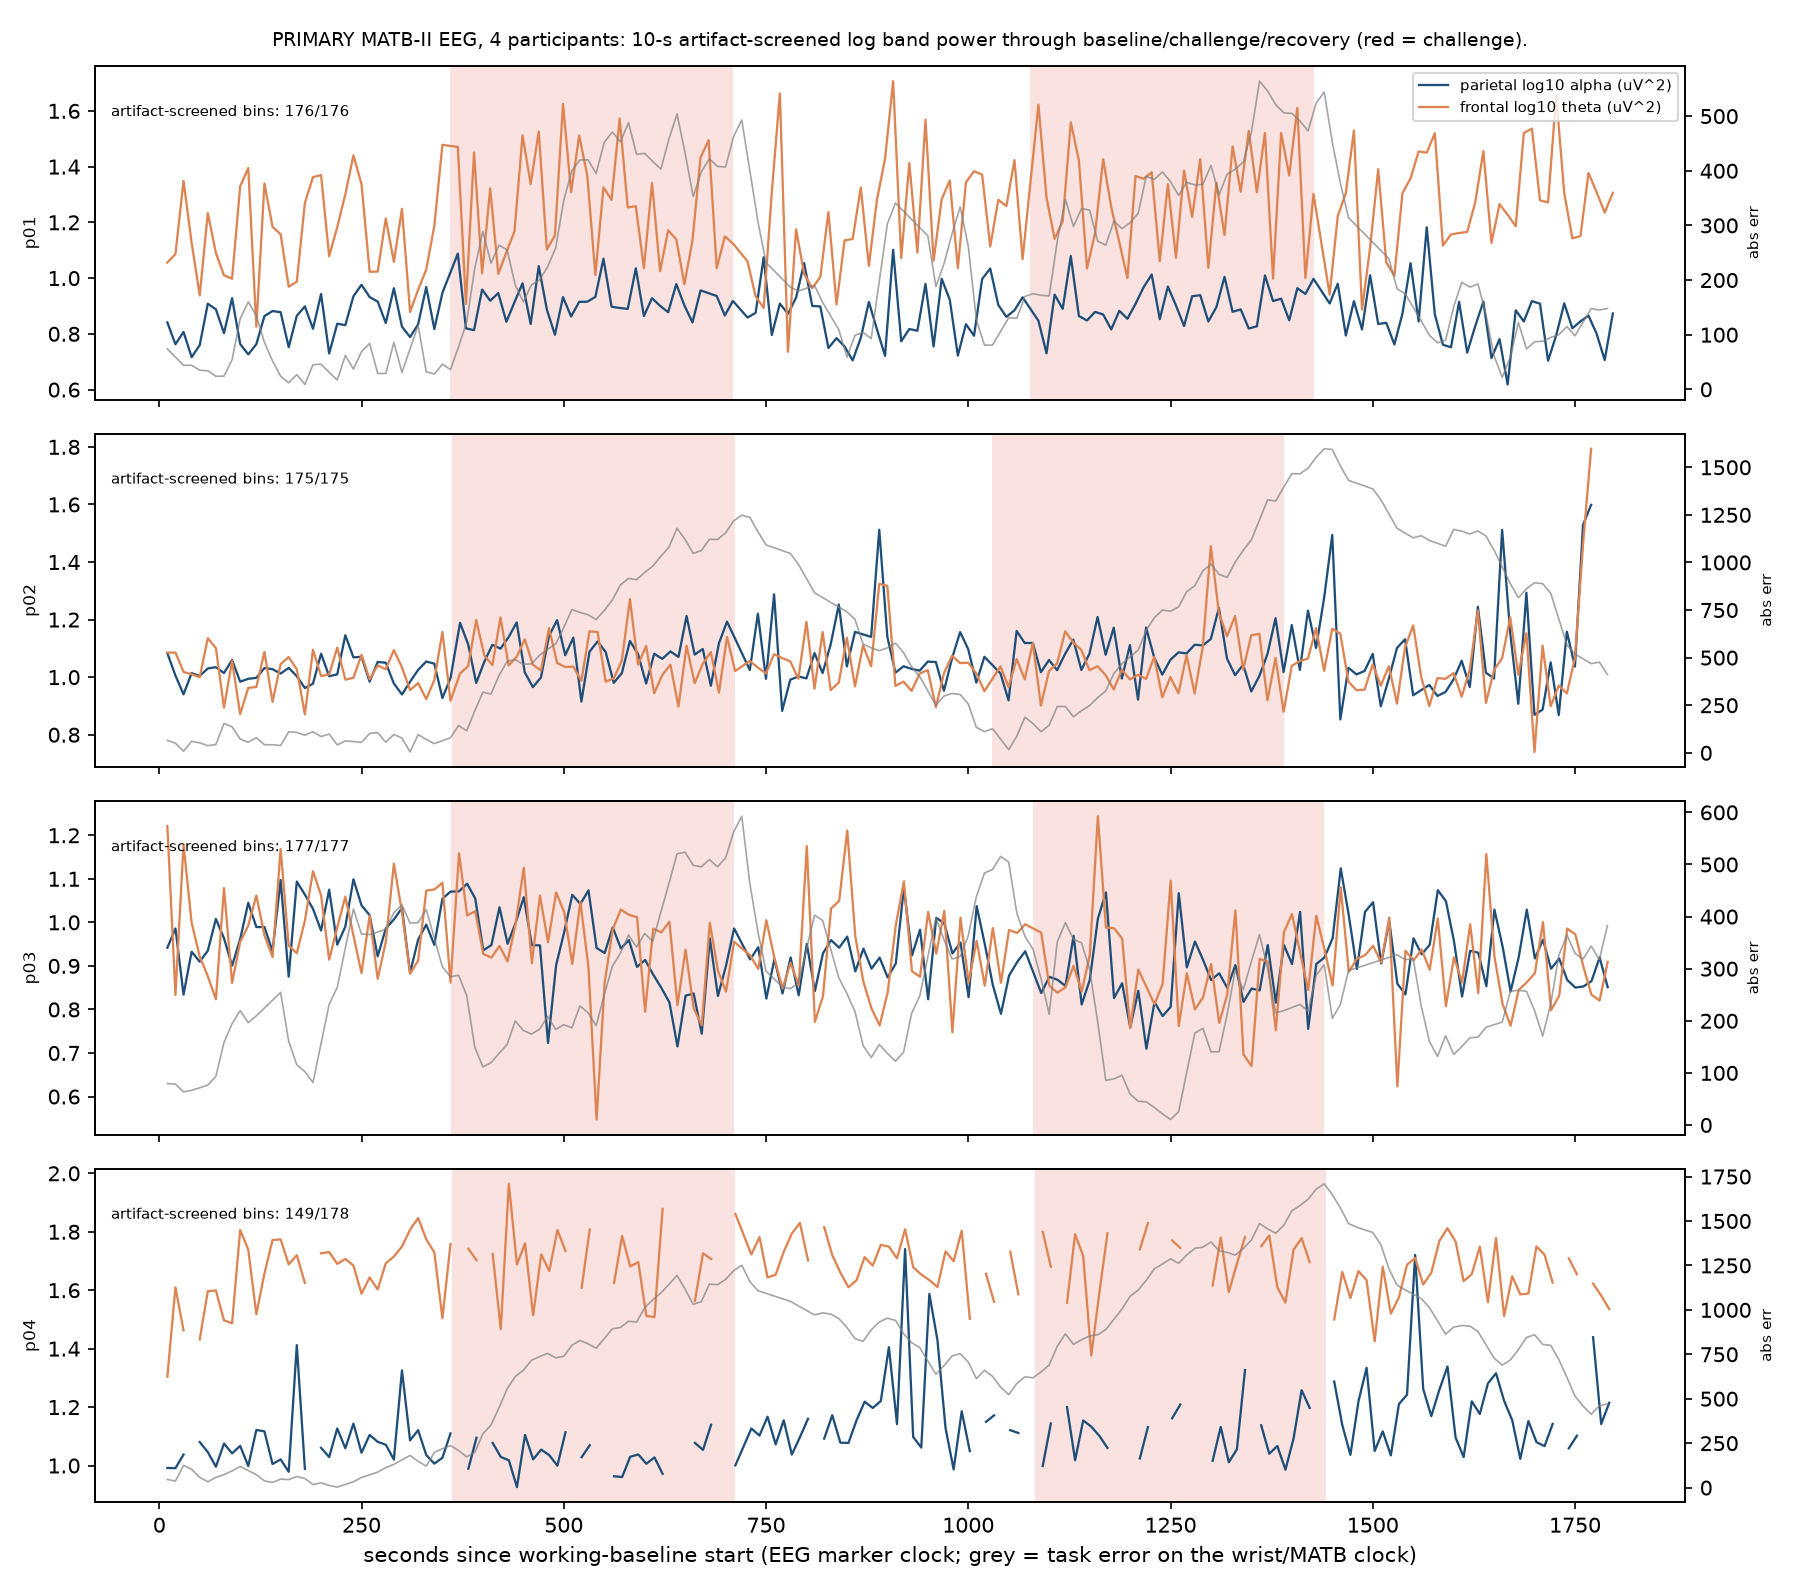
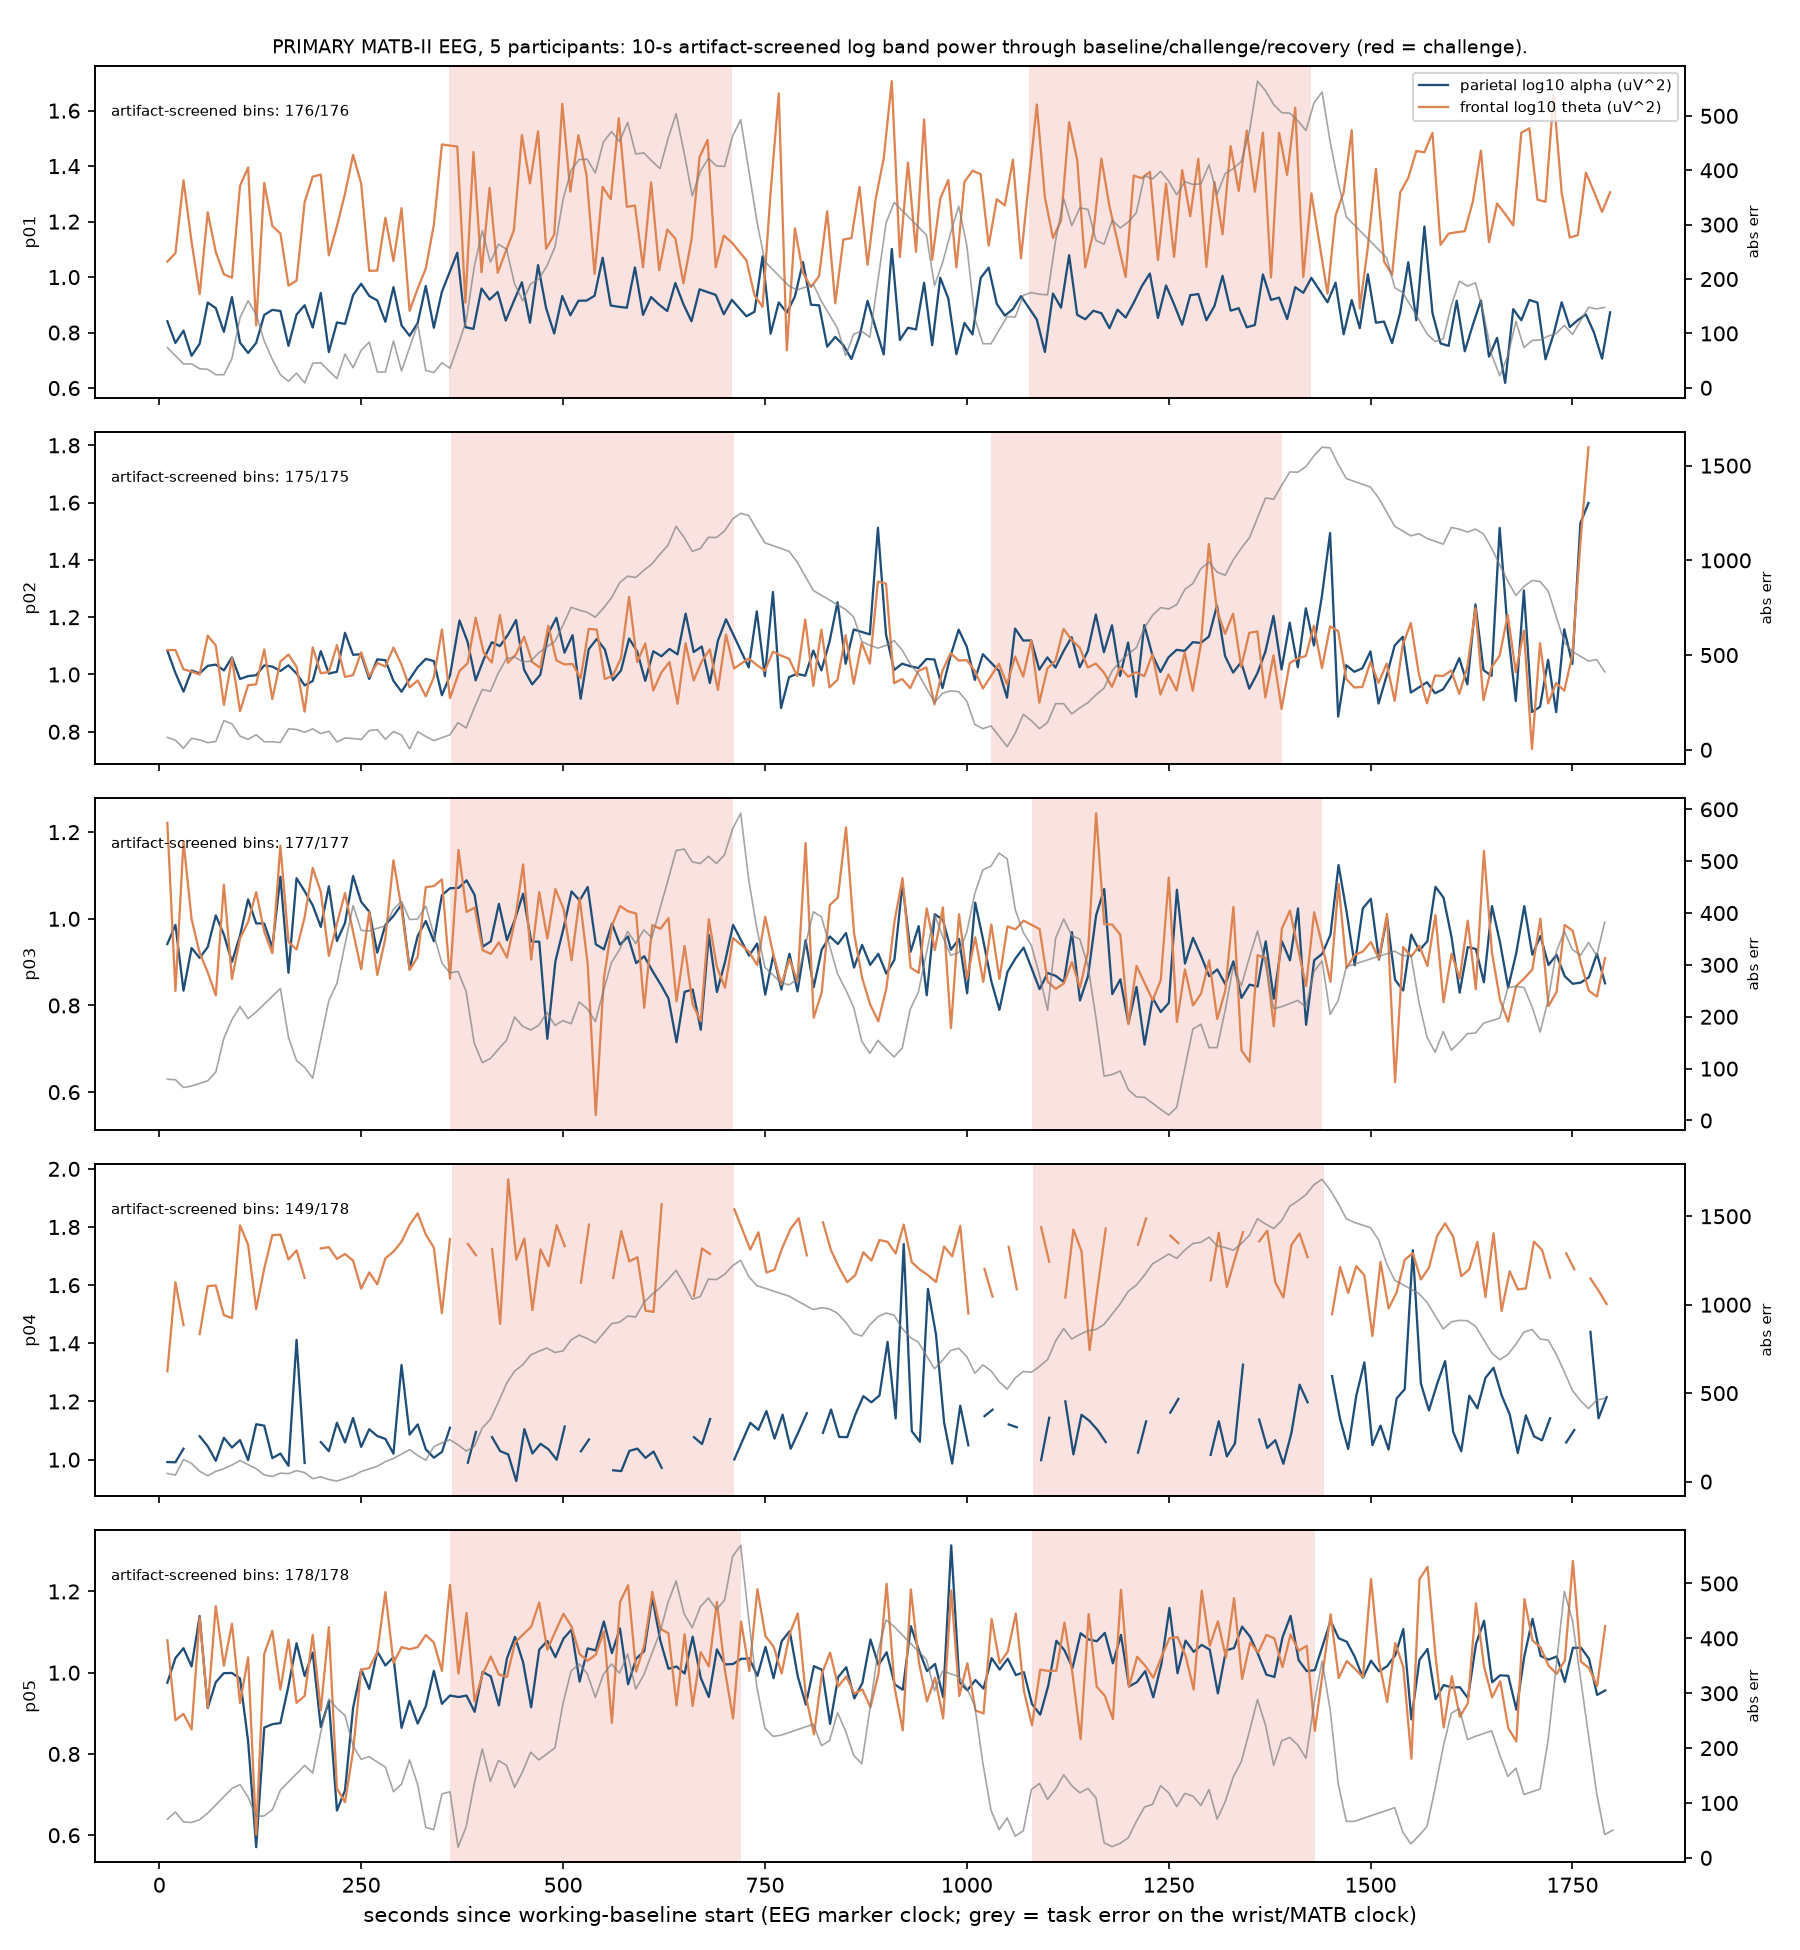
Checkpoint 2: primary MATB-II EEG for p01-p05 (verified, aligned, screened), RESULTS 0.7, STATUS and MANIFEST final
Claude-Session: https://claude.ai/code/session_017EyC3MgmdovF9i8GKVGqZg

diff --git a/STATUS.md b/STATUS.md
@@ -1,6 +1,6 @@
 # STATUS
 
-## 2026-09-09 21:35 UTC — PRIMARY dataset: Checkpoint 1 COMPLETE (wrist + behaviour, full cohort N = 35)
+## 2026-09-09 22:35 UTC — PRIMARY dataset: Checkpoints 1 and 2 COMPLETE (wrist + behaviour N = 35; EEG N = 5)
 - physionet.org allowed by the network policy since this session; the site served an **expired Let's Encrypt certificate**
   (notAfter 2026-09-09 20:22:45 UTC; container clock checked against external HTTP Date headers). The owner authorised
   certificate-check bypass for these public files only (no credentials; `MATB_CURL_INSECURE=1 scripts/download_matb.sh`).
@@ -18,15 +18,16 @@
 - Figures: figM1 (p01 first real baseline/challenge/recovery plot), figM2 cohort event-aligned, figM3 recovery incl. censoring,
   figM4 burden vs performance, figM5 added-value.
 - Disk/download: 34 MB wrist+behaviour; EEG p01 (606 MB) downloading; 8 GB cap → 5 EEG participants ≈ 3 GB projected.
-- Checkpoint 2 (EEG) in progress, 21:45 UTC: p01.csv (606,286,984 B) verified against SHA256SUMS; rows = channels
-  confirmed (504,214 samples at exactly 250 Hz, 2,016.9 s); EEG rows 34-65 in microvolts (retained channels robust SD
-  7-15 uV); the release is already low-passed (no 55-65 Hz power); 5 markers at 203.4, 562.4, 920.5, 1280.1, 1640.1 s
-  = working start + four transitions within -0.9..-3.3 s of the 360-s grid (no quiet-rest marker; EEG starts 203 s
-  before working start). Real-data QC: 15/32 channels rejected for p01 (whole-recording robust SD > 40 uV or p99 > 300 uV
-  or flat: FZ FT7 FT8 FC3 FC4 FC6 C1 CZ C2 CP1 CP2 P8 PO7 PO8 OZ), occipital group empty -> NaN; 176/176 retained-channel
-  bins pass the window screen. p02-p05 EEG files downloading one at a time (~17 min each).
+- Checkpoint 2 (EEG) complete, 22:35 UTC: p01-p05 combined CSVs (577-606 MB each) downloaded one at a time, all SHA256-verified
+  (325/325 files OK overall). Orientation, 250-Hz time row, microvolt units, channel order (xyz file) and marker semantics verified
+  on every file; 5 markers each = working start + 4 transitions. Cross-device chronology: transitions within 3.3 s of the grid
+  for p01/p03/p04/p05; p02's last two markers 50 s early → cycle-2 timing excluded as ambiguous. Whole-recording channel screen
+  rejected 15/32 channels for p01 (occipital group empty), 1-5 for the others; 96.7 % of 884 bins pass the window screen.
+  EEG responses are small and mixed in sign across the five (RESULTS.md 0.7); multimodal prediction NOT RUN (N=5 < 20).
+- Disk: raw primary data 2.9 GB (cap 8 GB), 19 GB free. Nothing deleted.
+- Not done: EEG beyond five participants (feasible; one at a time via scripts/download_matb.sh eeg pXX + scripts/matb_eeg.py pXX).
 
-Updated: 2026-09-09 21:15 UTC (checkpoint 3, final for tonight: BIOT audit run; all deliverables except the blocked primary dataset)
+Updated: 2026-09-09 22:40 UTC (primary dataset checkpoints 1-2 complete; earlier EEGMAT/ds007554/BIOT sections below unchanged)
 
 ## Environment
 - Claude Code cloud session, 4 vCPU, 15 GB RAM, 30 GB writable disk, CPU only.
@@ -75,13 +76,16 @@ RESULTS.md is attributed to the primary dataset.
 - [x] 5. Figures (results/figures/fig1-4, figE1), 9 tests passing, RESULTS.md, MANIFEST.md
 - [x] 6. Optional BIOT frozen-encoder audit run on EEGMAT (results/tables/biot_frozen_eegmat.json): pretrained frozen embeddings worse than handcrafted band power and not better than random weights
 - [x] 7. PRIMARY MATB-II Checkpoint 1: access, checksums, verified parser, audit, cohort metrics, prediction test, figures M1-M5 (21:35 UTC)
-- [ ] 8. PRIMARY MATB-II Checkpoint 2: EEG for five participants, one at a time
+- [x] 8. PRIMARY MATB-II Checkpoint 2: EEG p01-p05, one at a time; audit, metrics, figM6 (22:35 UTC)
 
-## Final state (21:15 UTC)
-- Deliverables present: PLAN.md, README.md, RESULTS.md, MANIFEST.md, requirements.lock.txt, `scripts/run_all.sh`, 9 passing tests,
-  audits in results/audit/, participant/file metrics and JSON summaries in results/tables/, five figures in results/figures/.
-- Usable N: EEGMAT 36 (32 cardiac); ds007554 30 (EEG-clock descriptives), 15 (cardiac+behaviour, event-matched), prediction test insufficient-N.
-- Not delivered: anything from the primary MATB-II dataset (network policy). Recovery dynamics were not measurable on the reachable datasets.
-- Disk: ~6 GB venv (torch), 3.5 GB raw data; 18 GB free. No pre-existing files deleted.
-- To resume: allow physionet.org in the environment network settings, then `scripts/matb_pipeline.py` (after inspecting the MATB-II performance
-  file format, which is unverified) and re-run `scripts/run_all.sh`.
+## Final state (22:40 UTC)
+- Deliverables: PLAN.md, README.md, RESULTS.md (section 0 = PRIMARY), MANIFEST.md, requirements.lock.txt, `scripts/run_all.sh`, 16 passing tests,
+  audits in results/audit/ (incl. matb_alignment_audit.csv, matb_eeg_audit.csv, matb_SHA256SUMS_verified.txt), participant metrics and JSON
+  summaries in results/tables/, figures fig1-4, figE1, figM1-M6 in results/figures/.
+- Usable N, PRIMARY: 35/35 wrist+behaviour (HR after pulse gating: 31 cycle 1, 29 cycle 2); EEG 5 (p02 cycle-2 timing ambiguous).
+  Prediction test run at N = 35 (peripheral adds nothing); multimodal EEG comparison NOT RUN (N = 5 < 20).
+- Earlier tonight (unchanged): EEGMAT 36 (32 cardiac); ds007554 30 / 15 event-matched, prediction insufficient-N; BIOT audit negative.
+- Disk: venv ~1 GB (no torch in this container), raw data 2.9 GB primary (+ EEGMAT/ds007554 not re-downloaded in this container); 19 GB free.
+  No pre-existing files deleted.
+- To extend EEG: `MATB_CURL_INSECURE=1 scripts/download_matb.sh eeg pXX && .venv/bin/python scripts/matb_eeg.py pXX` (one at a time; the
+  TLS bypass is only needed while physionet.org's certificate is expired).

diff --git a/RESULTS.md b/RESULTS.md
@@ -109,7 +109,40 @@ inside training folds; personal reference from the pre-challenge baseline only (
 controls are indistinguishable from the real pairing). The multimodal (EEG) comparison is left to Checkpoint 2 on the matched five-participant cohort, which is below 20 participants
 and will be labelled insufficient-N.
 
-### 0.7 EEG (Checkpoint 2): see the end of this section once run.
+### 0.7 EEG, Checkpoint 2: five participants (p01-p05), one 600-MB combined file each
+
+Files `EEGfNIRSeye_p1-p5/pXX/pXX.csv` (577-606 MB each; all five SHA256-verified). Orientation verified on every file: row 1 is time in steps of exactly
+0.004 s (250 Hz; 482,341-504,214 samples; 1,929-2,017 s), all 74 rows have equal length, rows 34-65 are 32 EEG channels in the order of
+`EEG_32_Channel_mapping.xyz` (AF3 ... OZ) in **microvolts** (retained channels: robust SD 7-25 µV), rows 66-73 are the eight eye rows (audited, not analysed),
+row 74 carries the markers. The release is already low-passed/notched (55-65 Hz power ≈ 1e-4 of alpha power). Script: `scripts/matb_eeg.py`;
+audit `results/audit/matb_eeg_audit.csv`; tables `results/tables/matb_eeg_{participant_metrics.csv,summary.json}`; Figure M6.
+
+**Markers and cross-device chronology.** Every file has exactly five markers (value 1): working start followed by four transitions. The EEG stream starts
+112-242 s before working start (no quiet-rest marker; the wrist tag has no counterpart marker, so the two clocks are joined only through the working-start
+event on each device). Transition deviations from the 360-s grid: p01 −0.9..−3.3 s, p03 ≤ 0.6 s, p04 1.9-2.3 s, p05 ≤ 0.9 s; **p02's third and fourth
+markers are 50 s early** (intervals 361.8, 358.2, 309.9, 360.1 s), so its cycle-2 timing estimates are excluded as ambiguous (magnitudes kept, flagged).
+Actual markers define the EEG block boundaries; bins never cross them.
+
+**Channel quality (whole-recording screen, frozen before outcomes).** Rejected channels: p01 15/32 (FZ FT7 FT8 FC3 FC4 FC6 C1 CZ C2 CP1 CP2 P8 PO7 PO8 OZ;
+occipital group empty → NaN), p02 1 (C1), p03 5, p04 5, p05 2. Window screen on retained channels: 96.7 % of the 884 bins pass (p04 84 %, others 100 %).
+Parietal-minus-frontal log10 alpha is positive in 3/5 (−0.02..+0.20), a weak plausibility check of the channel order.
+
+**Response magnitude (challenge median − reference A, log10 µV²; five participants, individually):**
+
+| feature | p01 | p02 | p03 | p04 | p05 | median c1 / c2 |
+|---|---|---|---|---|---|---|
+| frontal theta, c1 / c2 | +0.05 / +0.11 | +0.04 / +0.03 | −0.05 / −0.12 | −0.01 / +0.02 | +0.01 / −0.02 | +0.01 / +0.02 |
+| parietal alpha, c1 / c2 | +0.05 / +0.02 | +0.07 / +0.06 | −0.05 / −0.13 | −0.04 / +0.03 | +0.10 / +0.12 | +0.05 / +0.03 |
+| central beta, c1 / c2 | −0.03 / +0.11 | +0.10 / +0.01 | −0.15 / −0.24 | +0.12 / −0.01 | +0.05 / +0.01 | +0.05 / +0.01 |
+
+Changes are small (|Δ| ≤ 0.25 log10) and mixed in sign; the expected pattern (theta up, alpha down under added load) is not consistent across these five.
+Sustained departures at band ±2: frontal theta 1/5 (p04, at 240 s, returned by 30 s), parietal alpha 1/5 (p03, both cycles, returned at 120 s and 50 s),
+central alpha 3/5; everything else not estimable (no excursion). Within-participant Spearman between concurrent parietal alpha and task error over all task bins:
++0.30, +0.08, −0.10, +0.22, +0.12. 874 EEG bins were matched to wrist/behaviour bins on the nominal task clock (`data/features/matb_multimodal_bins.parquet`).
+
+**Matched-cohort added-value comparison with EEG: NOT RUN (insufficient-N, 5 < 20)**; Figure M5 carries the peripheral-only comparison at N = 35. Expanding EEG
+beyond five participants was possible on disk (19 GB free) but not in the time budget; `scripts/download_matb.sh eeg pXX && scripts/matb_eeg.py pXX` adds one
+participant at a time.
 
 ## 1. EEGMAT: EEG + ECG before and during mental arithmetic (N = 36)
 

diff --git a/MANIFEST.md b/MANIFEST.md
@@ -6,7 +6,7 @@ All raw data live under `data/raw/` (gitignored). Nothing below was modified bef
 |---|---|---|---|---|---|
 | EEGMAT (Zyma et al., "EEG during mental arithmetic tasks") | `https://physionet-open.s3.amazonaws.com/eegmat/eegmat-1.0.0.zip` (official PhysioNet AWS Open Data mirror) | 1.0.0 | Open Data Commons Attribution License v1.0 (PhysioNet) | 183,634,285 B zip; 72 EDF | zip sha256 in `results/audit/eegmat_zip_sha256.txt`; all 75 entries of the official `SHA256SUMS.txt` verified OK (`results/audit/eegmat_SHA256SUMS_official.txt`) |
 | CMx7-MM (Ajra et al.), OpenNeuro ds007554 | `https://s3.amazonaws.com/openneuro.org/ds007554/` (official OpenNeuro S3 bucket) | 1.0.0 (2026-03-23) | CC0 (dataset_description.json) | 3.3 GB downloaded (EEG EDF, ECG, push-button, events, phenotype; fNIRS/EMG/biodex skipped) | sizes matched to the S3 listing on download; sha256 of every downloaded file in `results/audit/ds007554_downloaded_sha256.txt` |
-| PRIMARY: Roy & Nuamah, neuro-stress-resilience-hci | `https://physionet.org/files/neuro-stress-resilience-hci/1.0.0/` (direct; not mirrored on AWS Open Data) | 1.0.0 | ODbL (LICENSE.txt in the release) | docs 6 files; MATB-II 35 × ~6.5 KB; PPG 35 folders ≈ 34 MB; EEG per participant ≈ 600 MB (downloaded one at a time, see STATUS.md) | every downloaded file verified against the official `SHA256SUMS.txt` (`results/audit/matb_SHA256SUMS_verified.txt`; 320/320 OK for docs+MATB+PPG). Transport note: physionet.org served an expired TLS certificate on 2026-09-09; the owner authorised a certificate-check bypass for these public files only, so integrity rests on the SHA256 manifest, not on TLS. |
+| PRIMARY: Roy & Nuamah, neuro-stress-resilience-hci | `https://physionet.org/files/neuro-stress-resilience-hci/1.0.0/` (direct; not mirrored on AWS Open Data) | 1.0.0 | ODbL (LICENSE.txt in the release) | docs 6 files; MATB-II 35 × ~6.5 KB; PPG 35 folders ≈ 34 MB; EEG p01-p05 combined CSVs 577-606 MB each (2.9 GB total raw) | every downloaded file verified against the official `SHA256SUMS.txt` (`results/audit/matb_SHA256SUMS_verified.txt`; 325/325 OK for docs+MATB+PPG+EEG p01-p05). Transport note: physionet.org served an expired TLS certificate on 2026-09-09; the owner authorised a certificate-check bypass for these public files only, so integrity rests on the SHA256 manifest, not on TLS. |
[1 lines of base64/hex data omitted]
 
 Software: Python 3.11.15; exact package versions in `requirements.lock.txt` (torch 2.14.0 and linear-attention-transformer 0.19.1 are needed only by `scripts/biot_frozen_eegmat.py`). Seeds: 0 everywhere (`SEED = 0` in scripts).
